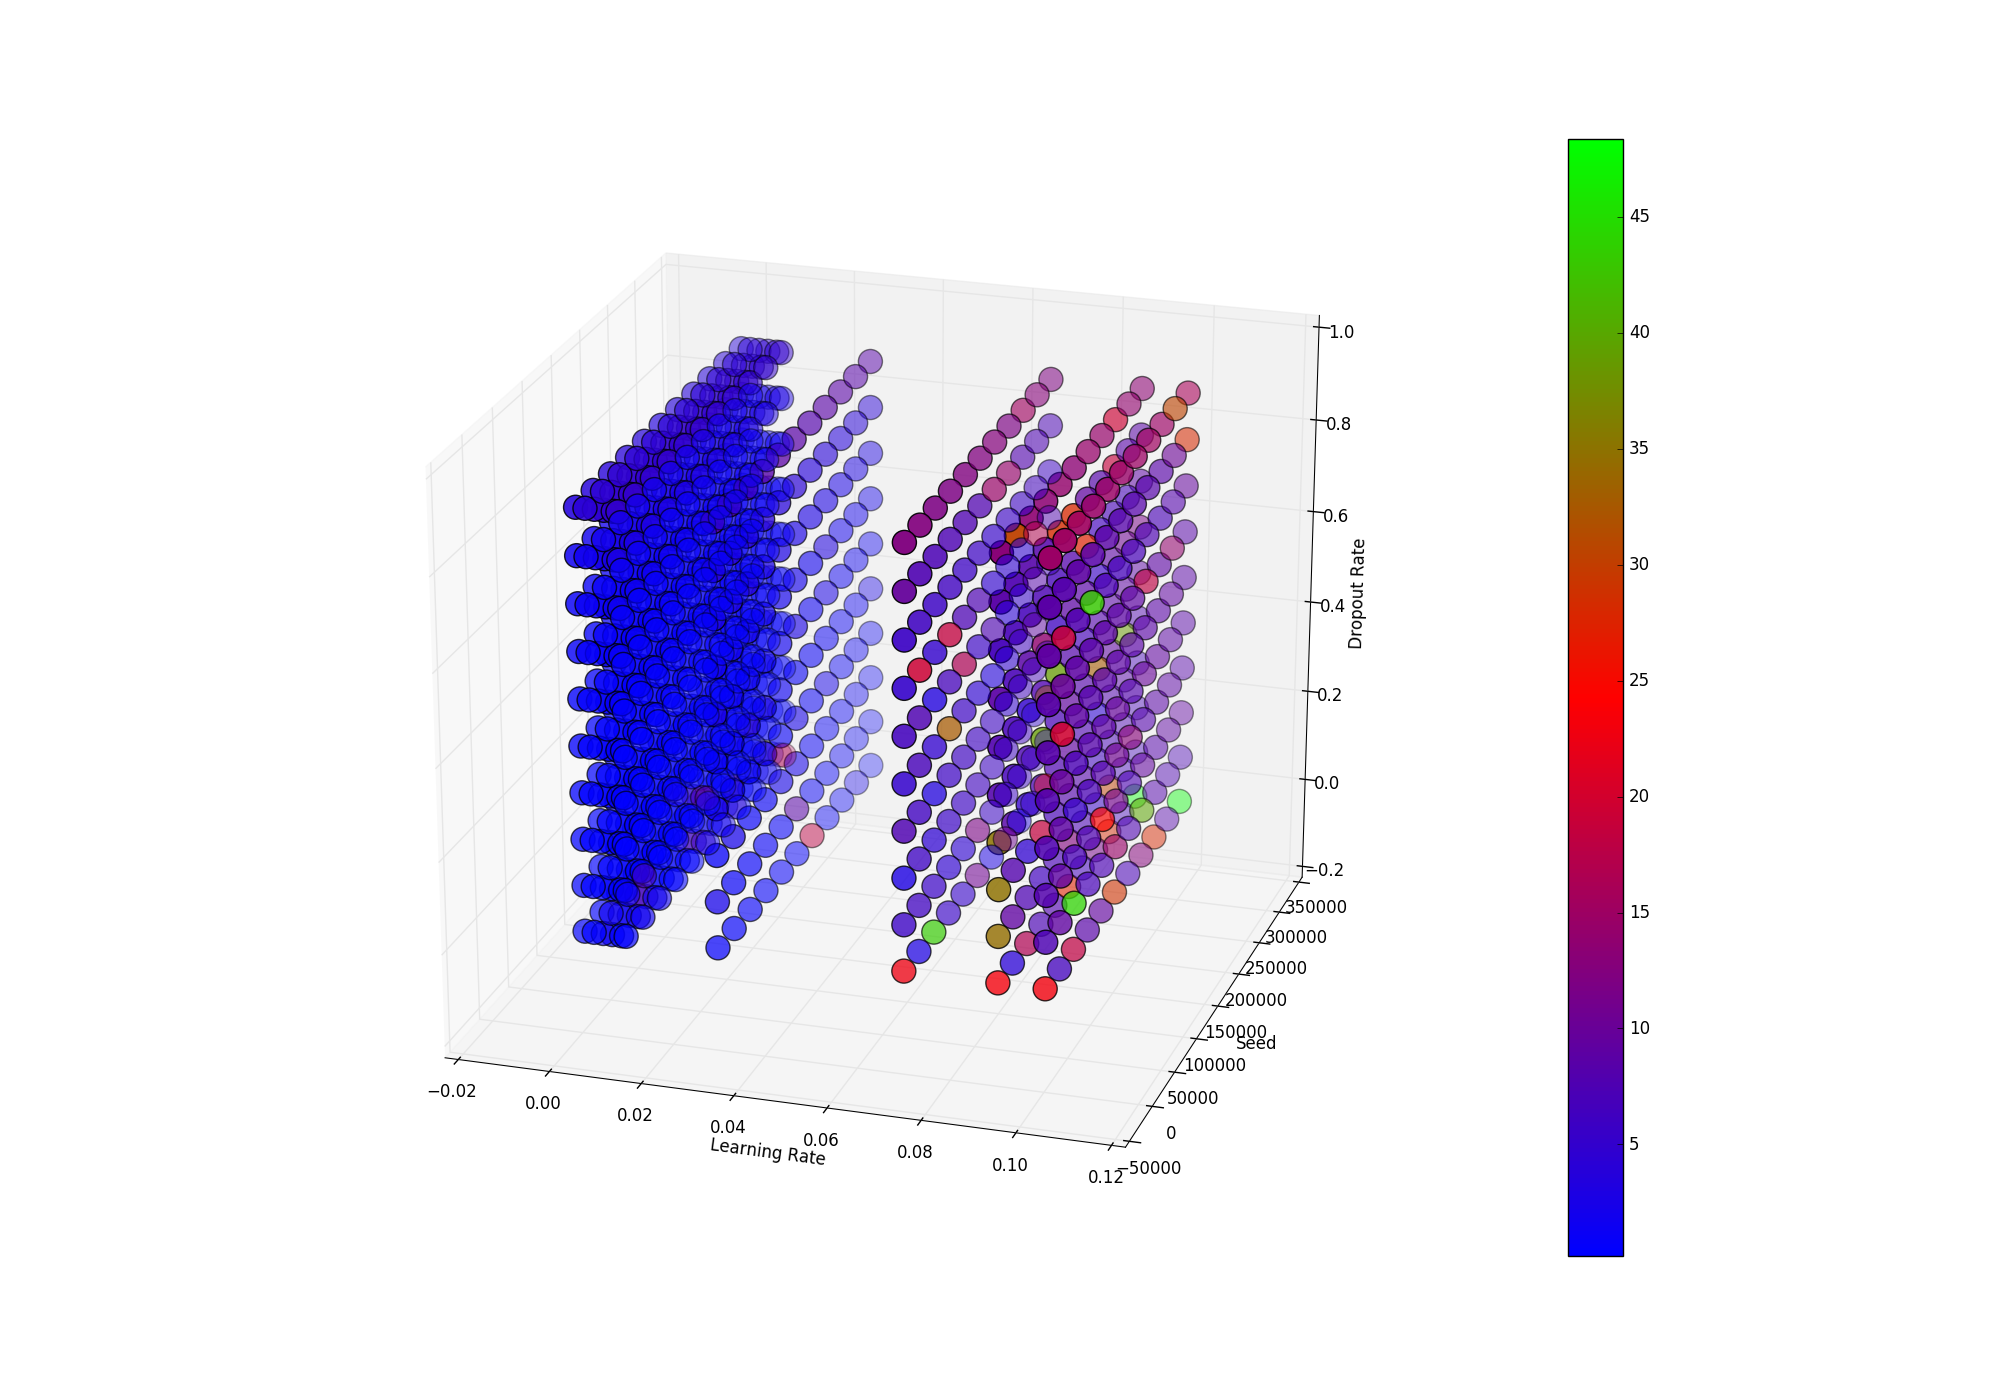
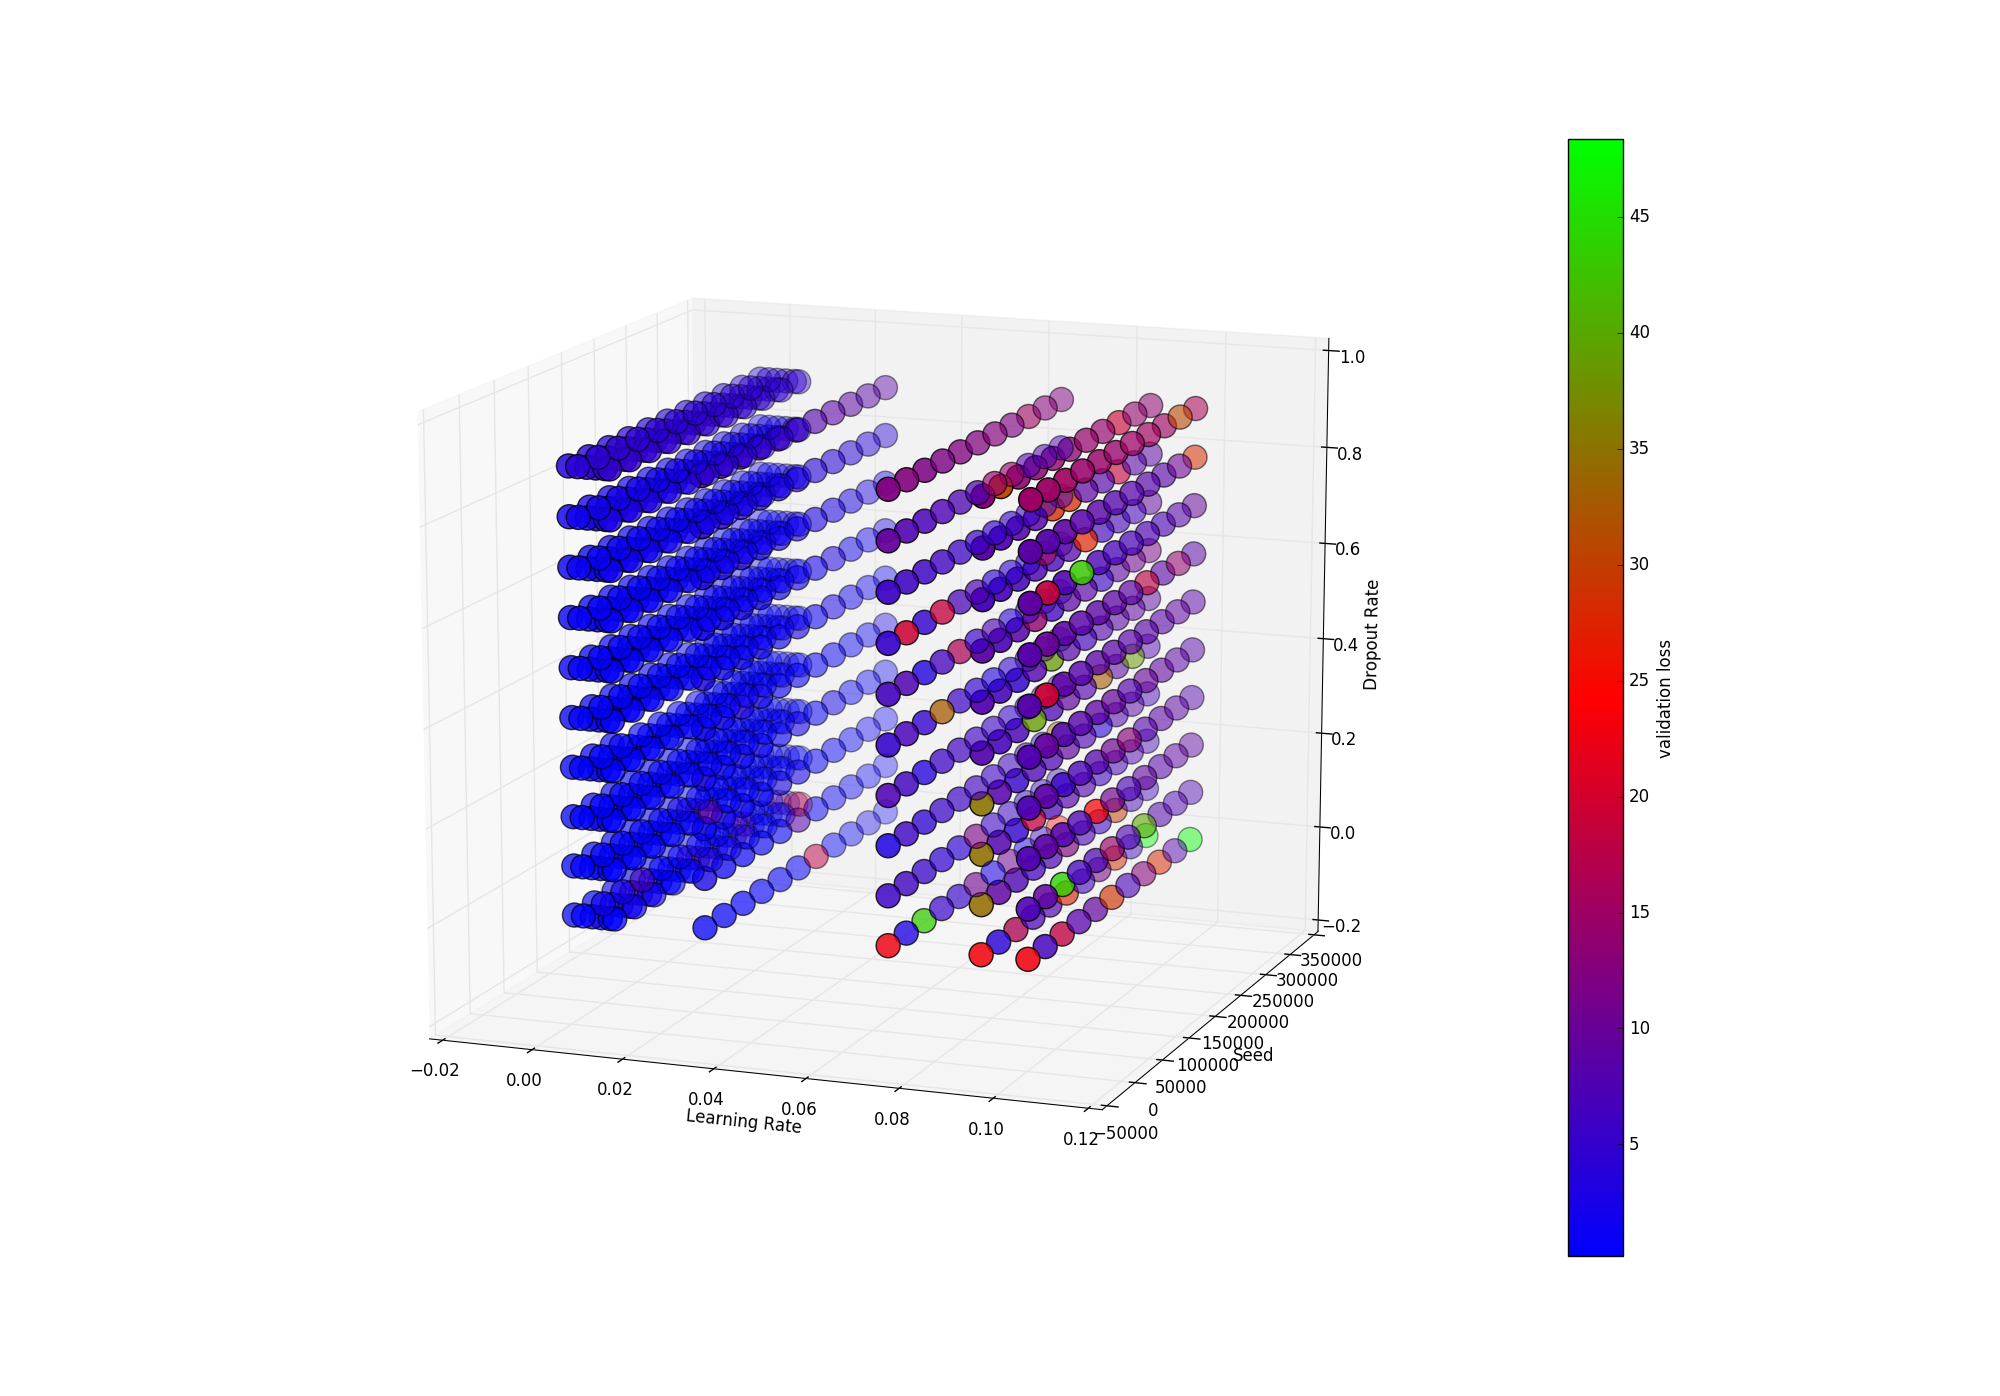
new heatmap with colorbar label

diff --git a/dataset/fixed_seed.py b/dataset/fixed_seed.py
@@ -34,22 +34,20 @@ print(number_of_test_data)
 
 
 
-
-
 loss_log = np.zeros(10)
 val_loss_log = np.zeros(10)
 
-adam = Adam(lr=0.003)
-
+adam = Adam(lr=0.0025)
 np.random.seed(1)
 model = Sequential()
-model.add(Dense(units=400, input_shape=(5,), kernel_initializer='random_normal', activation='relu'))
+model.add(Dense(units=200, input_shape=(5,), kernel_initializer='random_normal', activation='relu'))
 model.add(Dropout(rate=0))
-model.add(Dense(units=400, kernel_initializer='random_normal', activation='sigmoid'))
-model.add(Dropout(rate=0.0))
+model.add(Dense(units=200, kernel_initializer='random_normal', activation='sigmoid'))
+model.add(Dropout(rate=0))
+model.add(Dropout(rate=0))
 model.add(Dense(units=9, activation='relu', kernel_initializer='random_normal'))
 model.compile(loss='mean_squared_error',optimizer=adam)
-history = model.fit(x_data_train, y_data_train, validation_split=0.3, batch_size=512, epochs=20, verbose=1)
+history = model.fit(x_data_train, y_data_train, validation_split=0.2, batch_size=512, epochs=300, verbose=1)
 
 # check loss
 # loss is loss for each epoch
@@ -81,6 +79,10 @@ counter2 = round_counter(predict, y_data_test)
 print('exact right answer is: ' + str(counter))
 print('Answer with in rounding range is: ' + str(counter2))
 
+counter3, wrong_row = evaluate_deviation(predict,y_data_test)
+print('%s cases are beyond +/- 1 range' % counter3)
+
+
 dev1 = deviation_counter(round_predict, y_data_test)
 
 
@@ -96,15 +98,19 @@ d = capacity_diff.max()
 print('the biggest capacity excess is ' + str(d))
 
 
+unique, counts = np.unique(wrong_row.flatten(), return_counts=True)
+
+print(np.asarray((unique, counts)).T)
+
 nr_feasible = check_feasible(round_predict, x_data_test)
 print('number of feasible answer is:', nr_feasible)
-
-
-# plot
-plt.bar(range(len(dev1)),dev1)
-plt.xlabel('deviation')
-plt.ylabel('number of samples')
+plt.hist(wrong_row.flatten(), bins=np.arange(wrong_row.min(), wrong_row.max()+1))
 plt.show()
+# plot
+#plt.bar(range(len(dev1)),dev1)
+#plt.xlabel('deviation')
+#plt.ylabel('number of samples')
+#plt.show()
 
 
 

diff --git a/dataset/Toolset.py b/dataset/Toolset.py
@@ -160,7 +160,7 @@ def check_feasible(edge_flows, real_node_flows, edge_capacities=[15, 8, 20, 4, 1
     1. capacity constraint is satisfied.
     2. node flow is satisfied
     note: node flow is calculated given edge flow and network structure
-    :param x: x is a n by m matrix, where each row is the edge flow of a specific case
+    :param edge_flows: edge:flows is a n by m matrix, where each row is the edge flow of a specific case
     :param edge_capacities:
     :return:
     '''
@@ -190,3 +190,30 @@ def relative_deviation(x, y):
     else:
         raise ValueError('x and y must have same shape')
 
+
+def evaluate_deviation(x, y):
+    '''
+    use relative metric to evaluate the performance of the algorithm after rounding
+    1st, it evaluates results which are beyond the rounding -1/+1 range.
+
+
+    :param x: to
+    :param y:
+    :return: counter
+    '''
+    if np.shape(x) == np.shape(y):
+        num_of_rows = np.shape(x)[0]
+        floored = np.floor(x)
+        diff = np.subtract(y, floored)
+        counter = 0
+        # wrong rows are rows beyond the rounding range
+        wrong_row_dev = np.zeros(9)
+        for i, row in enumerate(diff):
+            if np.max(row) > 1:
+                wrong_row_dev = np.vstack((wrong_row_dev,row))
+                counter += 1
+        wrong_row_dev = wrong_row_dev[1:,]
+        return counter, wrong_row_dev
+
+    else:
+        raise ValueError('x and y must have same shape')

diff --git a/loss-vs-seed/loss_vs_dor.py b/loss-vs-seed/loss_vs_dor.py
@@ -132,7 +132,7 @@ for i, drop_out_rate in enumerate(drop_out_rates):
     model.add(Dropout(rate=drop_out_rate))
     model.add(Dense(units=9, activation='relu', kernel_initializer='random_normal'))
     model.compile(loss='mean_squared_error',optimizer=adam)
-    history = model.fit(x_data_train, y_data_train, validation_split=0.3, batch_size=512, epochs=200, verbose=1)
+    history = model.fit(x_data_train, y_data_train, validation_split=0.3, batch_size=512, epochs=20, verbose=1)
 
     # check loss
     # loss is loss for each epoch

diff --git a/1.py b/1.py
@@ -24,6 +24,7 @@ pic = ax.scatter(learning_rate, seed, drop_out_rate, c=val_loss, cmap=cm, s=300)
 ax.set_xlabel('Learning Rate')
 ax.set_ylabel('Seed')
 ax.set_zlabel('Dropout Rate')
-fig.colorbar(pic)
+cb =fig.colorbar(pic)
+cb.set_label('validation loss')
 plt.show()
 
